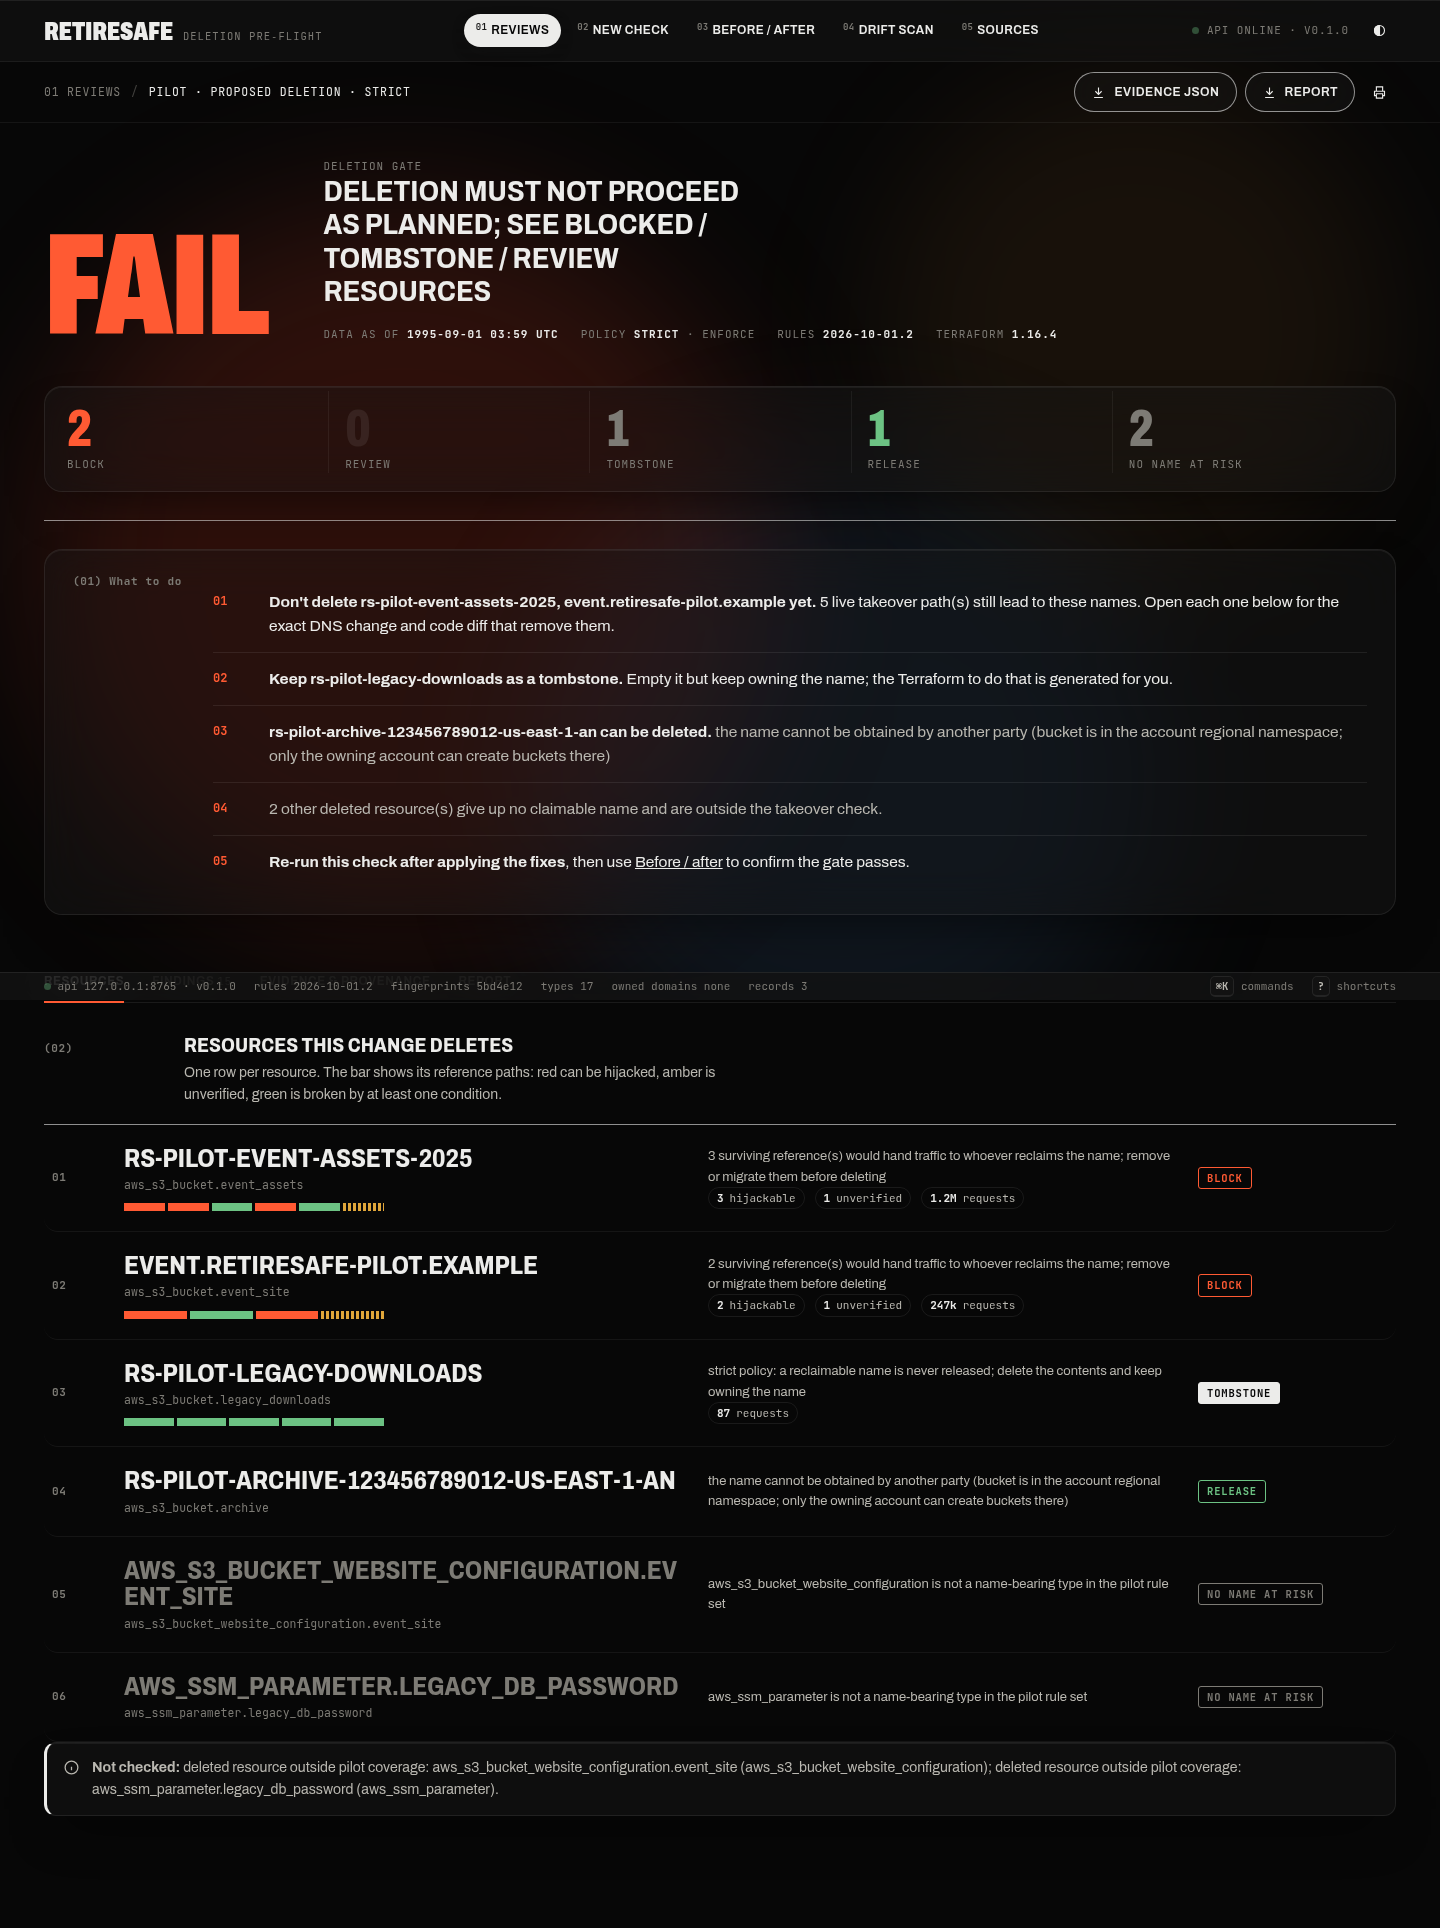
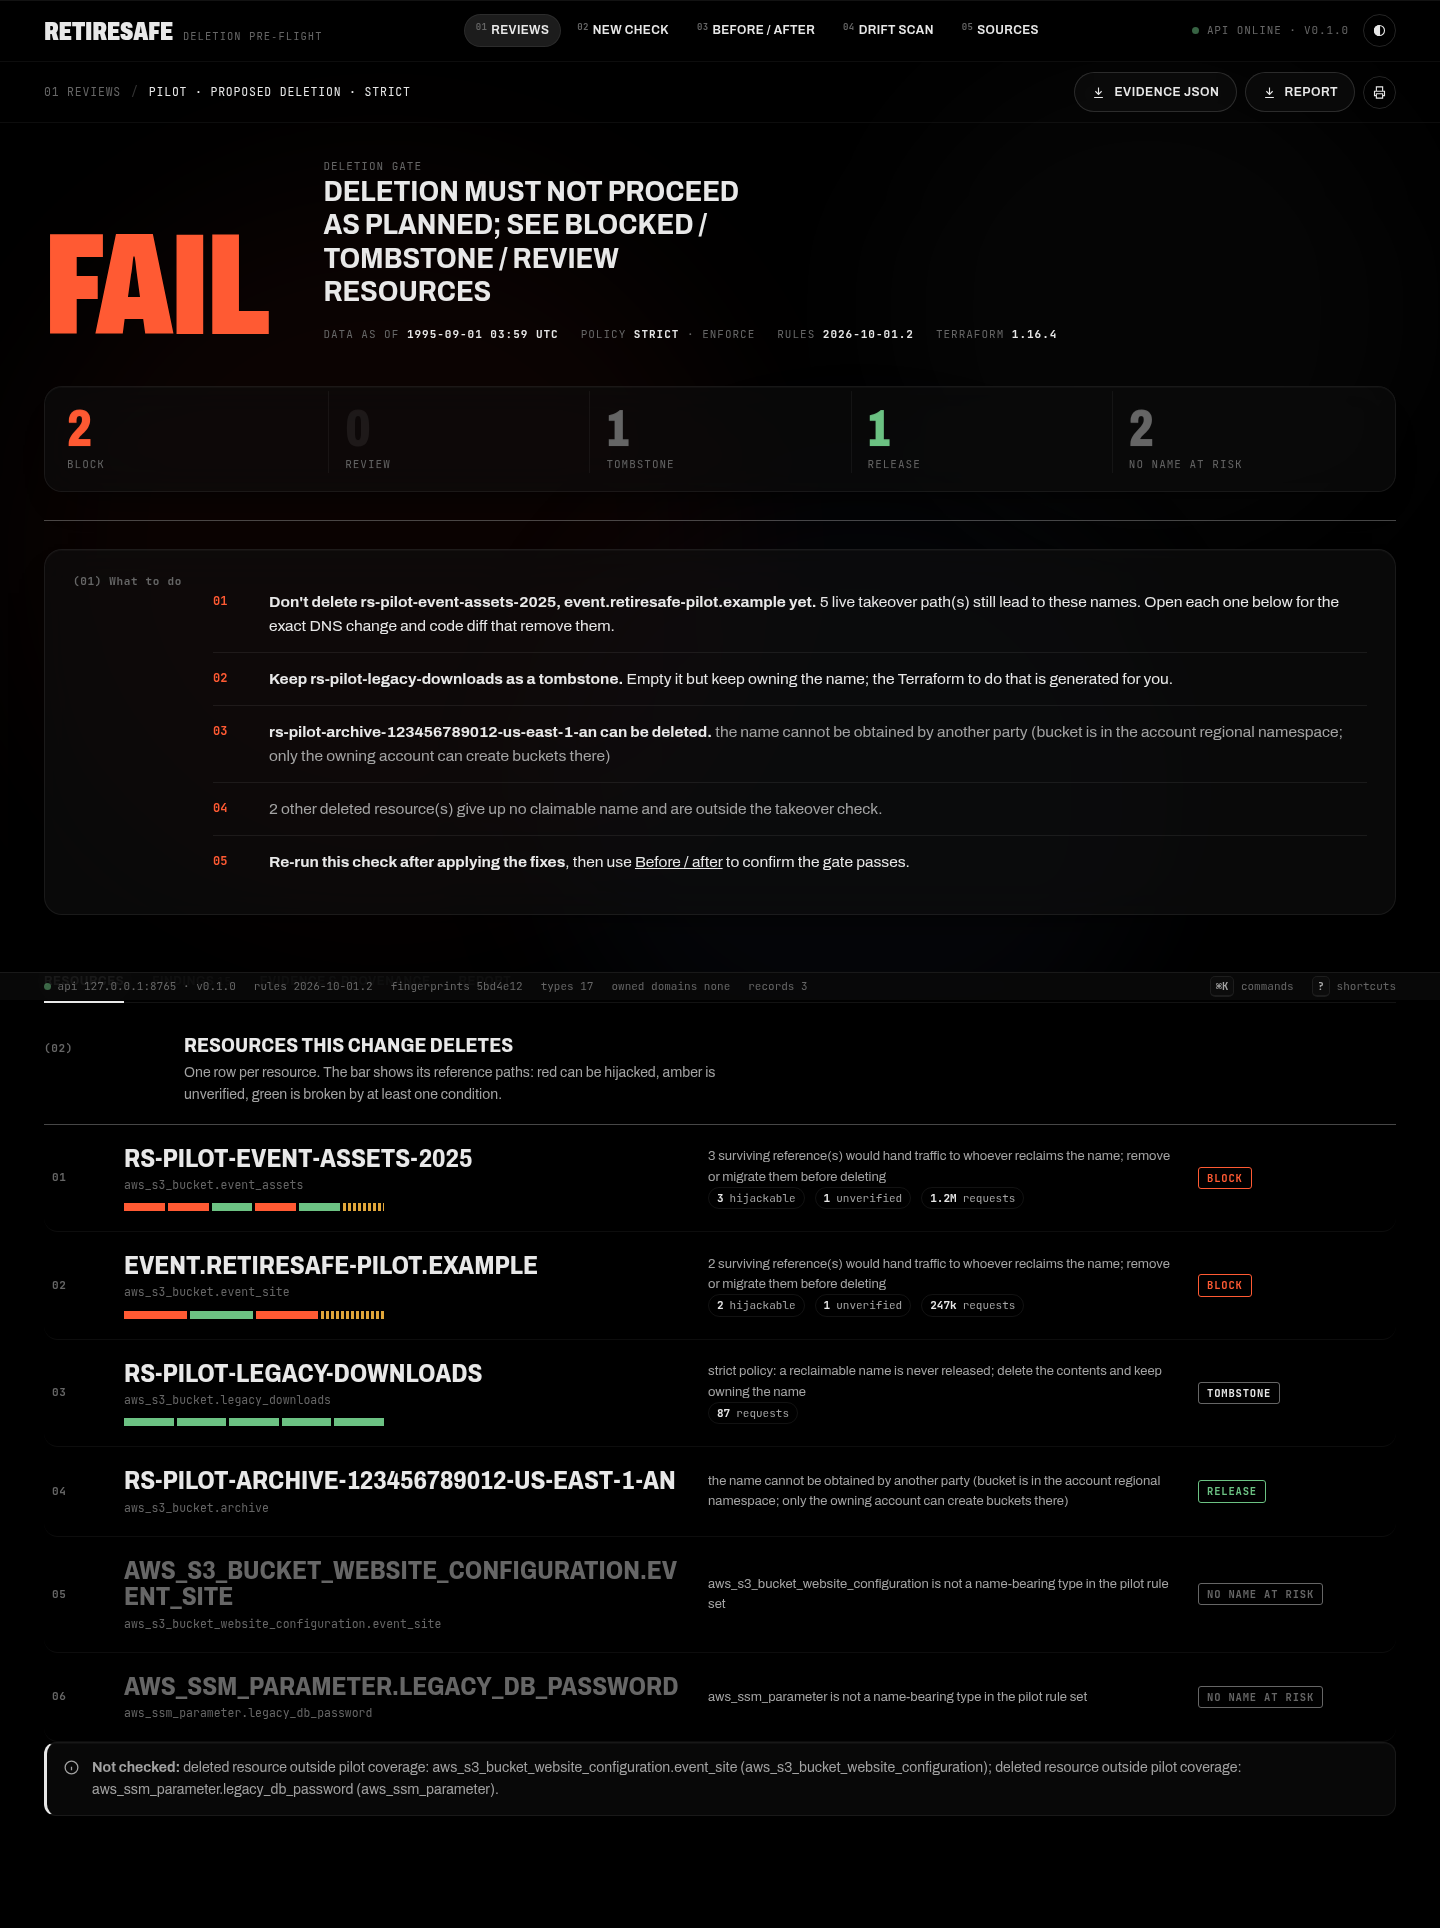
Make the dark theme near-black and minimal
Pure black base with neutral greys; colour kept for severity only. Auras
reduced to a faint hint; active nav, primary buttons, filter pills,
palette selection and row hovers use dark surfaces with hairline borders
instead of white fills; neutral KPI frames; grey chart bars; quieter
tombstone tag.

Claude-Session: https://claude.ai/code/session_01T5sVXqAZ7rGjsd5uG3JZh6

Changed region(s): [[0.0625, 0.1245, 0.5312, 0.4357], [0.8125, 0.7158, 0.9062, 0.7469], [0.3125, 0.0, 0.4062, 0.0311]]

diff --git a/backend/retiresafe/web/css/app.css b/backend/retiresafe/web/css/app.css
@@ -653,6 +653,76 @@ table.t td:first-child, table.t th:first-child { padding-left: 10px; }
   .statusbar span:nth-child(n+3) { display: none; }
 }
 
+/* ===================== Dark minimal =====================
+   Near-pure black, neutral greys, colour reserved for severity. */
+:root[data-theme="dark"] {
+  --paper: #000;
+  --paper-2: #0b0b0b;
+  --paper-3: #161616;
+  --ink: #e8e8e8;
+  --ink-2: #a3a3a3;
+  --muted: #666;
+  --rule: rgba(255, 255, 255, .07);
+  --rule-strong: rgba(255, 255, 255, .28);
+  --code: #080808;
+  --glass: rgba(14, 14, 14, .62);
+  --glass-strong: rgba(9, 9, 9, .88);
+  --glass-edge: rgba(255, 255, 255, .07);
+  --glass-line: rgba(255, 255, 255, .05);
+  --glass-shadow: 0 1px 0 rgba(255, 255, 255, .03) inset, 0 20px 40px -24px rgba(0, 0, 0, .9);
+  --aura-1: rgba(255, 70, 40, .045);
+  --aura-2: rgba(255, 255, 255, .02);
+  --aura-3: rgba(90, 120, 170, .05);
+  --surface: #121212;
+  --surface-hi: #1c1c1c;
+}
+:root[data-theme="dark"] body::before { opacity: .025; }
+:root[data-theme="dark"] .mast { background: rgba(0, 0, 0, .72); }
+/* no white pills: active and primary states are dark surfaces with a hairline */
+:root[data-theme="dark"] .nav a.on { background: var(--surface-hi); color: var(--ink); box-shadow: inset 0 0 0 1px var(--glass-edge); }
+:root[data-theme="dark"] .nav a.on sup { color: var(--muted); }
+:root[data-theme="dark"] .nav a:hover { background: var(--surface); }
+:root[data-theme="dark"] .btn { border-color: rgba(255, 255, 255, .14); }
+:root[data-theme="dark"] .btn.primary { background: var(--surface-hi); color: var(--ink); border-color: rgba(255, 255, 255, .16); }
+:root[data-theme="dark"] .btn.primary:hover { background: var(--signal); border-color: var(--signal); color: #fff; }
+:root[data-theme="dark"] .btn:not(.primary):not(.ghost):hover { background: var(--surface-hi); color: var(--ink); border-color: rgba(255, 255, 255, .3); }
+:root[data-theme="dark"] .btn.ghost:hover { background: var(--surface); }
+:root[data-theme="dark"] .fbtn.on { background: var(--surface-hi); color: var(--ink); box-shadow: inset 0 0 0 1px rgba(255, 255, 255, .1); }
+:root[data-theme="dark"] .fbtn.on b { color: var(--ink); }
+:root[data-theme="dark"] .seg { border-color: rgba(255, 255, 255, .16); }
+:root[data-theme="dark"] .seg label:has(input:checked) { background: var(--surface-hi); color: var(--ink); }
+:root[data-theme="dark"] .tabs a.on { border-bottom-color: var(--ink); }
+/* KPI cards: neutral frames, colour only in the number */
+:root[data-theme="dark"] .kpi, :root[data-theme="dark"] .kpi.bad { border-color: var(--glass-edge); background: var(--glass); }
+/* list rows: dark hover instead of a white fill */
+:root[data-theme="dark"] .irow::before { background: var(--surface); opacity: 1; }
+:root[data-theme="dark"] .irow:hover { color: var(--ink); }
+:root[data-theme="dark"] .irow:hover .muted, :root[data-theme="dark"] .irow:hover .label,
+:root[data-theme="dark"] .irow:hover .idx, :root[data-theme="dark"] .irow:hover .dim { color: var(--ink-2); }
+:root[data-theme="dark"] .irow:hover .badge:not(.v-tombstone) { color: inherit; }
+:root[data-theme="dark"] .irow:hover .v-block { color: var(--signal); }
+:root[data-theme="dark"] .irow:hover .v-release { color: var(--green); }
+:root[data-theme="dark"] .irow:hover .v-review { color: var(--ochre); }
+:root[data-theme="dark"] .irow:hover .v-not_name_bearing { color: var(--muted); }
+:root[data-theme="dark"] .irow:hover .v-tombstone { background: var(--ink); color: #000; border-color: var(--ink); }
+:root[data-theme="dark"] .irow:hover .chip { border-color: var(--glass-edge); color: var(--ink-2); }
+:root[data-theme="dark"] .irow:hover .chip b { color: var(--ink); }
+:root[data-theme="dark"] .irow:hover .gate-word.fail { color: var(--signal); }
+:root[data-theme="dark"] .irow:hover .gate-word.pass { color: var(--green); }
+:root[data-theme="dark"] table.t tr.click:hover td, :root[data-theme="dark"] table.t tr.click:focus td { background: rgba(255, 255, 255, .025); }
+/* palette selection */
+:root[data-theme="dark"] .pal-item.on, :root[data-theme="dark"] .pal-item:hover { background: var(--surface-hi); color: var(--ink); }
+:root[data-theme="dark"] .pal-item.on .hash, :root[data-theme="dark"] .pal-item:hover .hash { color: var(--muted); }
+:root[data-theme="dark"] .overlay { background: rgba(0, 0, 0, .65); }
+/* tags: quieter outline tags; tombstone no longer a white block */
+:root[data-theme="dark"] .v-tombstone { background: transparent; color: var(--ink); border-color: rgba(255, 255, 255, .4); }
+:root[data-theme="dark"] .stamp.v-tombstone { border-color: var(--ink); }
+:root[data-theme="dark"] .toast { background: var(--surface-hi); color: var(--ink); border-color: var(--glass-edge); }
+:root[data-theme="dark"] ::selection { background: #3a3a3a; color: #fff; }
+
+:root[data-theme="dark"] .chart .bar { fill: #8c8c8c; }
+:root[data-theme="dark"] .sw.bar { background: #8c8c8c; }
+
 @media (prefers-reduced-motion: reduce) {
   *, *::before, *::after { animation: none !important; transition: none !important; }
 }

diff --git a/docs/RESEARCH_LOG.md b/docs/RESEARCH_LOG.md
@@ -100,3 +100,7 @@ Full scorecard: [08_negatives_and_mitigations.md](08_negatives_and_mitigations.m
   * The home page is now an operations view: KPIs plus a cross-assessment findings queue with filters, search and CSV export. Cells starting with `= + - @` are quote-prefixed to block formula injection.
   * A command palette, keyboard shortcuts, a CLI reproduction block per assessment, raw JSON per path, and a status bar.
 * **Backend defect found by the new console:** the dashboard's parallel first requests raced to create the SQLite store, and one returned HTTP 500 "database is locked". Fixed with a lock around store creation and a 15 s SQLite busy timeout. The regression test slows `Store.__init__` and counts constructions, so it fails without the fix and passes with it.
+* **Dark minimal (requested):**
+  * The dark theme is now near-pure black with neutral greys; colour is kept for severity only.
+  * The auras are reduced to a faint hint, and white pills, buttons and row fills are replaced by dark surfaces with hairline borders.
+  * KPI frames are neutral, so only the number carries colour, and the chart bars are grey.
